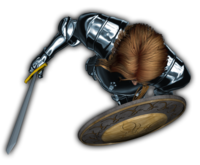
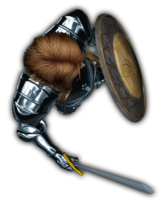
InputManager added to keep order of inputs sane, and to add some types around the different kinds of input. Also rotated the rpg_sword_sheild.png 90 degrees so we don't compensate for it in the code

diff --git a/core/src/com/ancient/game/crpg/battle/BattleMovementSystem.kt b/core/src/com/ancient/game/crpg/battle/BattleMovementSystem.kt
@@ -9,11 +9,13 @@ import com.badlogic.ashley.systems.IteratingSystem
 import com.badlogic.gdx.math.Vector2
 import ktx.ashley.get
 import ktx.ashley.mapperFor
+import ktx.math.minus
 import ktx.math.times
 
 
-data class Movable(val speed: Float //How fast are you moving?
+data class Movable(val movementSpeed: Float //How fast are you moving?
                    , var destination: Vector2? // Where are you finally going
+                   , val rotationSpeed: Float // How fast can we turn
                    , var facingDirection: Float? = null // Where are you looking while you move?
 ) : Component
 
@@ -21,20 +23,31 @@ class BattleMovementSystem : IteratingSystem(
         all(Movable::class.java, Transform::class.java).get()) {
     private val movableMapper: ComponentMapper<Movable> = mapperFor()
     private val transformMapper: ComponentMapper<Transform> = mapperFor()
+    private val arrivalDistance = 5f
     override fun processEntity(entity: Entity, deltaTime: Float) {
 
-        val destination = entity[movableMapper]!!.destination?.let { Vector2(it.x, it.y) }
-        val speed = entity[movableMapper]!!.speed
+        val destination = entity[movableMapper]!!.destination
+        val speed = entity[movableMapper]!!.movementSpeed
+        val rotationSpeed = entity[movableMapper]!!.rotationSpeed
+        val facingDirection = entity[movableMapper]!!.facingDirection
         val position = entity[transformMapper]!!.position
+        val rotation = entity[transformMapper]!!.rotation
+        if (destination != null) {
+            val direction = (destination - position).nor()
 
-        destination
-                ?.sub(position)
-                ?.nor()
-                ?.let { norm ->
-                    norm * (speed * deltaTime)
-                }?.let { dir ->
-                    position.add(dir)
-                }
+            // IMPORTANT: All assets that have a direction must
+            // be facing RIGHT!!!
+            val desiredRotation = direction.angle()
+            val currentRot = desiredRotation // + (rotationSpeed * deltaTime)
+            entity[transformMapper]!!.rotation = currentRot
+
+            val step = direction * (speed * deltaTime)
+            position.add(step) // This mutates the reference to position in the entity
+            val distToDest = Vector2.dst(position.x, position.y, destination.x, destination.y)
+            if (distToDest <= arrivalDistance) {
+                entity[movableMapper]!!.destination = null
+            }
+        }
 
 
     }

diff --git a/core/src/com/ancient/game/crpg/battle/BattleScreen.kt b/core/src/com/ancient/game/crpg/battle/BattleScreen.kt
@@ -1,6 +1,7 @@
 package com.ancient.game.crpg.battle
 
 import com.ancient.game.crpg.RenderSystem
+import com.ancient.game.crpg.UserInputManager
 import com.ancient.game.crpg.assetManagement.ASSET
 import com.ancient.game.crpg.playerCharacter
 import com.badlogic.ashley.core.Entity
@@ -20,25 +21,18 @@ import ktx.log.info
 class BattleScreen(val assetManager: AssetManager, val batch: Batch, val viewport: Viewport) : KtxScreen {
 
     private lateinit var engine: PooledEngine
-
+    private lateinit var inputManager: UserInputManager
     override fun show() {
         info { "Showing at camera pos ${viewport.camera.position}" }
-
-
-
-
         info { "Input Management" }
 
         val battleCommandSystem = BattleCommandSystem(viewport)
 
+        inputManager = UserInputManager(listOf(battleCommandSystem))
+
         Gdx.input.inputProcessor = object : KtxInputAdapter {
             override fun touchDown(screenX: Int, screenY: Int, pointer: Int, button: Int): Boolean {
-                battleCommandSystem.onTouchDown(screenX, screenY, pointer, button)
-                return false
-            }
-
-            override fun touchUp(screenX: Int, screenY: Int, pointer: Int, button: Int): Boolean {
-                battleCommandSystem.onTouchUp(screenX, screenY, pointer, button)
+                inputManager.touchDown(screenX, screenY, pointer, button)
                 return false
             }
         }
@@ -50,18 +44,24 @@ class BattleScreen(val assetManager: AssetManager, val batch: Batch, val viewpor
         engine.addSystem(battleCommandSystem)
         engine.addSystem(BattleMovementSystem())
         val txr: Texture = assetManager[ASSET.SWORD_SHIELD.filePath]
+
         val sprite = Sprite(txr)
         engine.addEntity(
                 Entity().playerCharacter(
                         sprite
                         , Vector2(0f, 0f)
-                        , 80.0f
+                        , 320.0f
                         , 90f
+                        , 0.5f
                 )
         )
     }
 
-    override fun render(dt: Float) {
-        engine.update(dt)
+    override fun render(delta: Float) {
+        // Receive user input first
+        inputManager.update(delta)
+
+        // Update systems
+        engine.update(delta)
     }
 }

diff --git a/core/src/com/ancient/game/crpg/battle/BattleCommandSystem.kt b/core/src/com/ancient/game/crpg/battle/BattleCommandSystem.kt
@@ -1,5 +1,8 @@
 package com.ancient.game.crpg.battle
 
+import com.ancient.game.crpg.LeftClick
+import com.ancient.game.crpg.UserInputListener
+import com.ancient.game.crpg.UserInputType
 import com.badlogic.ashley.core.Component
 import com.badlogic.ashley.core.ComponentMapper
 import com.badlogic.ashley.core.Entity
@@ -15,28 +18,29 @@ import ktx.log.info
 object Selectable : Component
 object PlayerControlled : Component
 
-class BattleCommandSystem(val viewport: Viewport) : IteratingSystem(
+class BattleCommandSystem(val viewport: Viewport) : UserInputListener,  IteratingSystem(
         all(Selectable::class.java, PlayerControlled::class.java, Movable::class.java).get()) {
 
     private var destination: Vector2? = null
-
+    private var rotation: Float? = null
+    private var changed = false
     private val movable: ComponentMapper<Movable> = mapperFor()
-    fun onTouchDown(
-            screenX: Int, screenY: Int, pointer: Int, button: Int
-    ) {
-        destination = viewport.unproject(Vector2(screenX.toFloat(), screenY.toFloat()))
-        info { "Set Destination :$destination" }
-    }
 
-    fun onTouchUp(
-            screenX: Int, screenY: Int, pointer: Int, button: Int
-    ) {
-        info { "UP: $screenX - $screenY - $pointer - $button" }
+    override fun onInput(input: UserInputType) {
+       when(input) {
+           is LeftClick -> {
+               destination = viewport.unproject(Vector2(input.screenX.toFloat(), input.screenY.toFloat()))
+               changed = true
+               info { "Set Destination :$destination" }
+           }
+       }
     }
-
 
     override fun processEntity(entity: Entity, deltaTime: Float) {
-        entity[movable]?.destination = destination
+        if (changed) {
+            entity[movable]?.destination = destination
+            changed = false
+        }
     }
 
 }

diff --git a/core/src/com/ancient/game/crpg/RenderSystem.kt b/core/src/com/ancient/game/crpg/RenderSystem.kt
@@ -12,8 +12,8 @@ import com.badlogic.gdx.utils.viewport.Viewport
 import ktx.ashley.get
 import ktx.ashley.mapperFor
 
-data class Renderable(val sprite: Sprite) : Component
-data class Transform(var position: Vector2, var rotation: Float? = null) : Component
+class Renderable(val sprite: Sprite) : Component
+class Transform(var position: Vector2, var rotation: Float) : Component
 
 class RenderSystem(val batch: Batch, val viewport: Viewport) : IteratingSystem(
         all(Renderable::class.java, Transform::class.java).get()) {
@@ -38,13 +38,25 @@ class RenderSystem(val batch: Batch, val viewport: Viewport) : IteratingSystem(
         batch.begin()
         entities.forEach { entity ->
             val renderable = entity[renderMapper]!!
-            val position = entity[transform]!!.position.let { viewport.project(it) }
+            val rotation = entity[transform]!!.rotation
             val sprite = renderable.sprite
+            val position = entity[transform]!!.position.let { viewport.project(it) }
+            val widthOffset = sprite.width / 2
+            val heightOffset = sprite.height / 2
+
 
             batch.setColor(1f, 1f, 1f, 1f)
-            batch.draw(sprite
-                    , position.x
-                    , position.y
+            batch.draw(
+                    sprite,
+                    position.x - widthOffset,
+                    position.y - heightOffset,
+                    widthOffset,
+                    heightOffset,
+                    sprite.width,
+                    sprite.height,
+                    1f,
+                    1f,
+                    rotation
             )
 
         }

diff --git a/core/src/com/ancient/game/crpg/UserInputManager.kt b/core/src/com/ancient/game/crpg/UserInputManager.kt
@@ -1,0 +1,43 @@
+package com.ancient.game.crpg
+
+import com.badlogic.gdx.Input
+import ktx.app.KtxInputAdapter
+
+
+sealed class UserInputType()
+data class LeftClick(val screenX: Int, val screenY: Int) : UserInputType()
+data class RightClick(val screenX: Int, val screenY: Int) : UserInputType()
+
+interface UserInputListener {
+    fun onInput(input: UserInputType)
+}
+
+class UserInputManager(
+        val listeners: List<UserInputListener>
+) : KtxInputAdapter {
+
+    var timeSinceLastInput = 0f
+    var previousInput: UserInputType? = null
+    var currentInput: UserInputType? = null
+
+
+    fun update(dt: Float) = currentInput?.let { input ->
+        // Update relevant systems
+        listeners.forEach { it.onInput(input) }
+        previousInput = input
+        currentInput = null
+        timeSinceLastInput = 0f
+    } ?: timeSinceLastInput+dt
+
+    private fun touchToMouse(screenX: Int, screenY: Int, button: Int) =
+            when (button) {
+                Input.Buttons.LEFT -> LeftClick(screenX, screenY)
+                Input.Buttons.RIGHT -> RightClick(screenX, screenY)
+                else -> null
+            }
+
+    override fun touchDown(screenX: Int, screenY: Int, pointer: Int, button: Int): Boolean {
+        currentInput = touchToMouse(screenX, screenY, button)
+        return false
+    }
+}

diff --git a/core/src/com/ancient/game/crpg/EntityExt.kt b/core/src/com/ancient/game/crpg/EntityExt.kt
@@ -12,6 +12,7 @@ fun Entity.playerCharacter(sprite: Sprite,
                            position: Vector2,
                            speed: Float,
                            movementDirection: Float,
+                           rotationSpeed: Float,
                            destination: Vector2? = null,
                            facingDirection: Float? = null
 ) = apply {
@@ -19,5 +20,5 @@ fun Entity.playerCharacter(sprite: Sprite,
     add(Transform(position, facingDirection ?: movementDirection))
     add(Selectable)
     add(PlayerControlled)
-    add(Movable(speed, destination, facingDirection))
+    add(Movable(speed, destination, rotationSpeed, facingDirection))
 }

diff --git a/README.md b/README.md
@@ -26,7 +26,8 @@ management twist!
 
 
 ### Battle
-* Move characters by clicking
+* Set origin of entity to center of sprite.
+    * Currently it's in the bottom left corner.
 * Select groups of characters
 * LOW: Figure out Sprite rotation?
 
@@ -37,3 +38,6 @@ management twist!
 ### Options Menu
 
 ### Opening Menu
+
+# Finished
+*DONE:  Move characters by clicking
